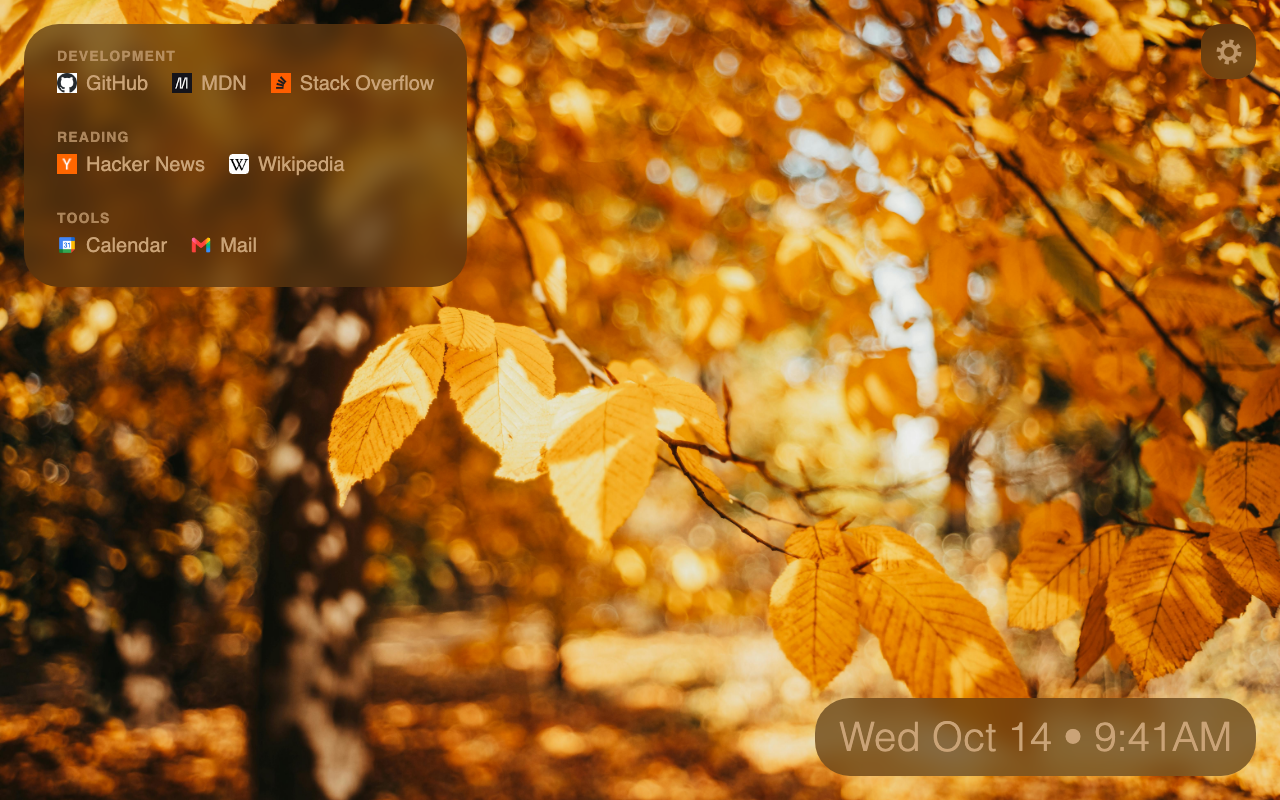
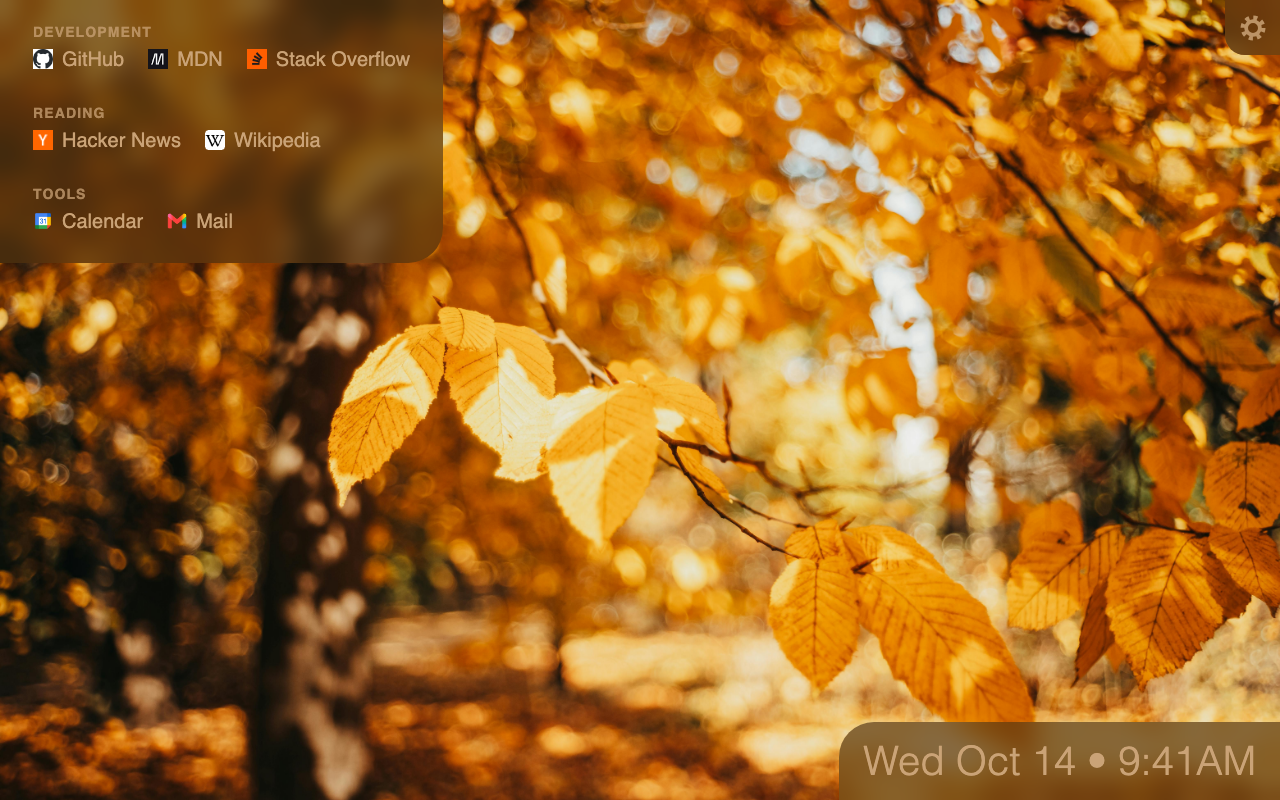
Add an option to attach Corners panels to the screen edges
Corners panels float a margin in from the edges. A new "Attach panels to
the corners" checkbox, on by default, sets them flush instead: the links
top-left, the clock bottom-right and the gear top-right, each with the
corner against the screen squared off and only its inner corner
rounded. It only appears in settings when the Corners layout is
selected, and Center ignores it.

The gear menu gets its own radius, since it no longer matches the
gear's backing once that backing is attached.

Regenerates the store screenshots.

Changed region(s): [[0.0, 0.0, 0.375, 0.375], [0.625, 0.875, 1.0, 1.0], [0.9375, 0.0, 1.0, 0.0938]]

diff --git a/options.js b/options.js
@@ -733,6 +733,9 @@ function renderLook() {
   document.querySelectorAll("#look-layout button").forEach((button) => {
     button.setAttribute("aria-pressed", button.dataset.layout === look.layout);
   });
+  document.getElementById("look-attached").checked = look.attached;
+  // Attaching only means something in Corners
+  document.getElementById("look-attached-row").hidden = look.layout !== "corners";
   document.querySelectorAll("#look-density button").forEach((button) => {
     button.setAttribute("aria-pressed", button.dataset.density === look.density);
   });
@@ -775,6 +778,9 @@ function setupLook() {
     const layout = e.target.closest("button")?.dataset.layout;
     if (layout) updateLook({ layout });
   });
+  document.getElementById("look-attached").addEventListener("change", (e) =>
+    updateLook({ attached: e.target.checked }),
+  );
   document.getElementById("look-density").addEventListener("click", (e) => {
     const density = e.target.closest("button")?.dataset.density;
     if (density) updateLook({ density });

diff --git a/panels.css b/panels.css
@@ -171,6 +171,31 @@ body[data-layout="corners"] {
   filter: none;
 }
 
+/* Attached (Corners only): each panel sits flush in its corner, with the
+   corner against the screen edges squared off and only the inner corner
+   rounded */
+body[data-layout="corners"][data-attached] {
+  & .link-groups {
+    top: 0;
+    left: 0;
+    max-width: calc(100vw / var(--panel-scale));
+    max-height: calc(100vh / var(--panel-scale));
+    border-radius: 0 0 var(--panel-radius) 0;
+  }
+
+  & .clock {
+    right: 0;
+    bottom: 0;
+    border-radius: var(--panel-radius) 0 0 0;
+  }
+
+  & .top-controls {
+    top: 0;
+    right: 0;
+    border-radius: 0 0 0 min(var(--panel-radius), 1rem);
+  }
+}
+
 /* Center: clock over links in one panel in the middle of the screen. The
    wrapper becomes the single panel: two touching panels showed a seam of
    photo between them whenever they landed on fractional pixels (browser

diff --git a/options.html b/options.html
@@ -259,6 +259,10 @@
         cursor: pointer;
       }
 
+      .toggle[hidden] {
+        display: none;
+      }
+
       .toggle small {
         display: block;
         color: var(--ink-muted);
@@ -629,6 +633,11 @@
               <button data-layout="center">Center</button>
             </div>
           </div>
+
+          <label class="toggle" id="look-attached-row">
+            <input type="checkbox" id="look-attached" />
+            <span>Attach panels to the corners<small>Each panel sits flush in its corner of the screen</small></span>
+          </label>
 
           <div class="field">
             <span class="field-label">Density</span>

diff --git a/new-tab.html b/new-tab.html
@@ -67,7 +67,7 @@
         max-height: calc(100vh - 6rem);
         overflow: auto;
         padding: 0;
-        border-radius: inherit;
+        border-radius: min(var(--panel-radius), 1rem);
         /* a backdrop blur can't see past the gear's frosted backing, so the
            menu stacks the translucent panel color to stay near-opaque */
         background:

diff --git a/render.js b/render.js
@@ -325,6 +325,8 @@ function lookColors(look, rgb) {
 function applyLayout(look) {
   document.body.dataset.layout = look.layout;
   document.body.dataset.density = look.density;
+  // Only Corners reads it (see panels.css)
+  document.body.toggleAttribute("data-attached", look.attached);
 }
 
 function applyLook(look, rgb) {

diff --git a/storage.js b/storage.js
@@ -31,6 +31,8 @@ const defaultSettings = {
     blur: 12,
     corners: 1.75,
     density: "comfortable",
+    // Corners only: panels sit flush in their corners rather than floating
+    attached: true,
   },
 };
 
